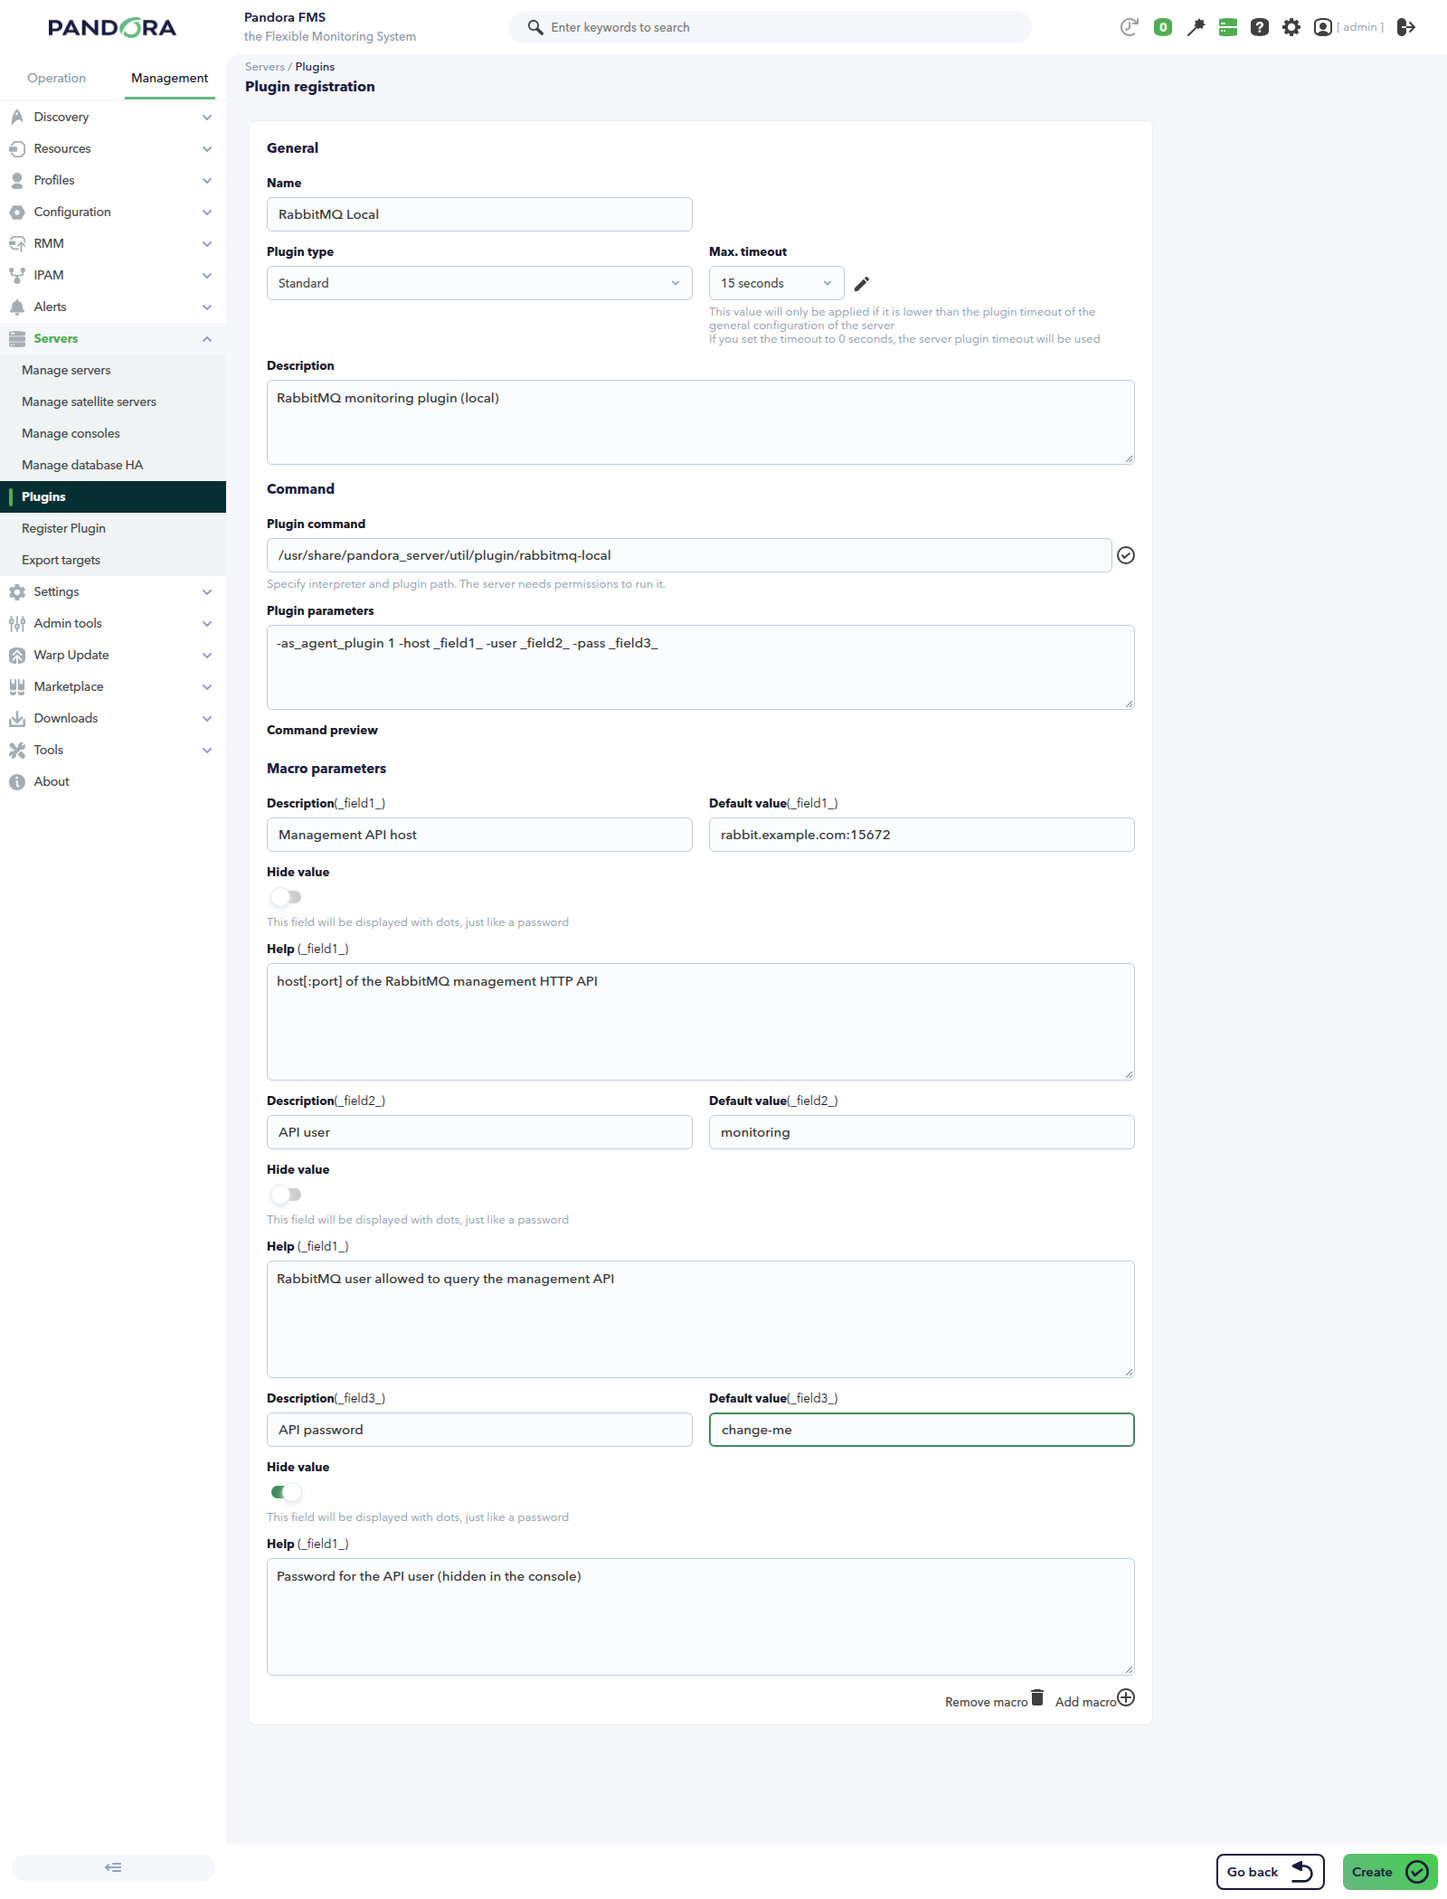
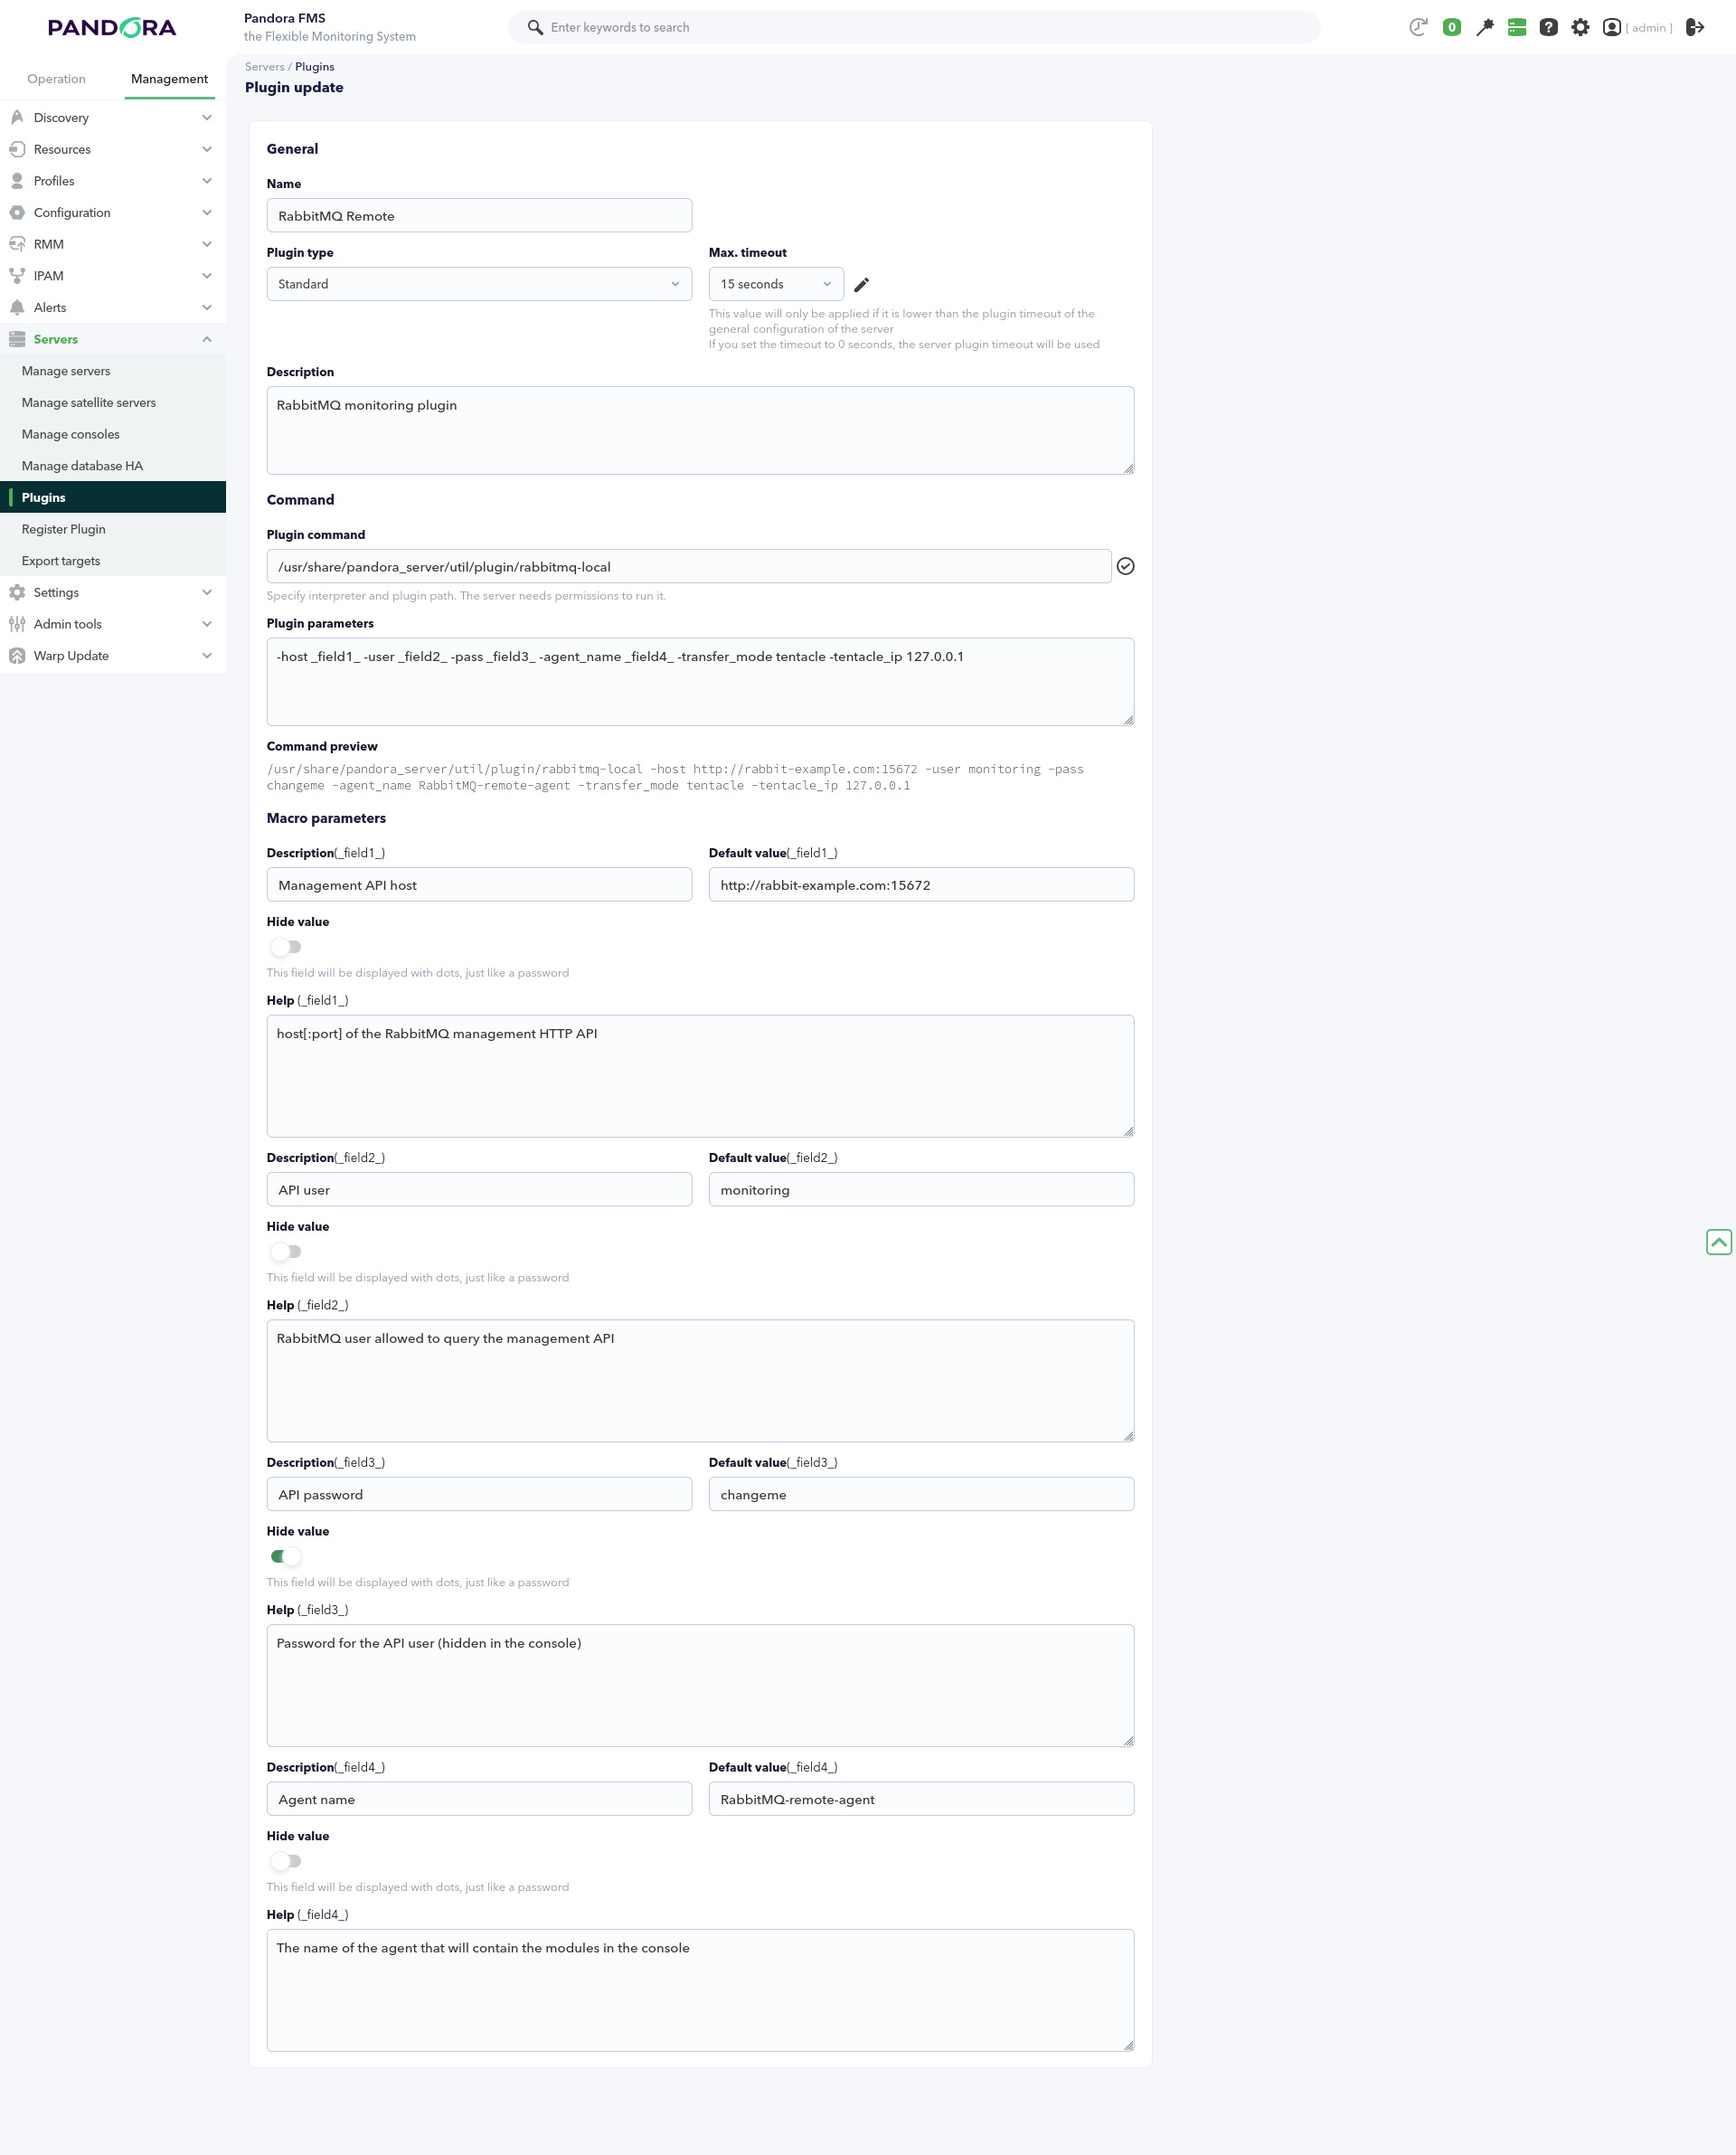
docs(rabbitmq-local): document console server-plugin registration and the management port #21113

diff --git a/docs/es/plugins/rabbitmq-local.md b/docs/es/plugins/rabbitmq-local.md
@@ -1,6 +1,6 @@
 # RabbitMQ Local monitoring plugin
 
-*Última actualización del artículo: 2026-10-16.*
+*Última actualización del artículo: 2026-10-19.*
 
 ## Qué hace
 
@@ -25,9 +25,11 @@ El plugin admite dos modelos de ejecución:
 ### Compatibilidad y disponibilidad
 
 El plugin se ha validado en Rocky Linux 9 contra un bróker RabbitMQ 3.13.7 con
-el plugin de gestión habilitado. El bróker debe exponer su API HTTP de gestión,
-por defecto en el puerto `15672`, y la máquina que ejecuta el plugin debe poder
-alcanzarla.
+el plugin de gestión habilitado. El bróker debe exponer su API HTTP de gestión
+en el puerto de gestión — `15672` por defecto en RabbitMQ — y la máquina que
+ejecuta el plugin debe poder alcanzarla. El plugin no añade ningún puerto por
+defecto: incluya el puerto de gestión en `host` (consulte
+[Configuración](#configuracion)).
 
 ### Requisitos
 
@@ -148,8 +150,11 @@ opciones, sustituyendo los valores del archivo:
 Puntos clave:
 
 - `host` admite `host`, `host:port`, `http://host:port` o `https://host:port`;
-  cuando no se indica esquema, el plugin consulta `http://<host>`. Incluya el
-  puerto de gestión cuando no sea `15672`.
+  cuando no se indica esquema, el plugin consulta `http://<host>`. El plugin no
+  añade ningún puerto por defecto: un `host` sin puerto usa el puerto por
+  defecto del esquema (`80` para HTTP, `443` para HTTPS), así que incluya el
+  puerto de gestión — `15672` es el valor por defecto de RabbitMQ — salvo que un
+  proxy sirva la API en el puerto por defecto del esquema.
 - `ca_file` apunta a un bundle PEM con la CA que firma el certificado de la API
   de gestión. Solo se usa con un host `https`; sin él, HTTPS verifica contra el
   almacén de confianza del sistema.
@@ -190,34 +195,53 @@ Puntos clave:
 
 ### Registrar el plugin en la consola
 
-El plugin también puede registrarse en la consola de Pandora FMS, de modo que
-sus parámetros se rellenen por agente como campos del módulo en lugar de en una
-línea de comandos:
+El plugin también puede registrarse en la consola de Pandora FMS como plugin de
+servidor, de modo que Pandora FMS lo ejecute en el servidor que ejecuta los
+módulos — el servidor principal o un servidor remoto — en lugar de en una línea
+de comandos. Registrado así, el plugin mantiene su modo servidor: cada
+ejecución construye el XML del agente y lo entrega, y el agente con sus módulos
+aparece en la consola.
 
-1. Abra **Servers → Plugins** y haga clic en **Add plugin**.
-2. Rellene el nombre, la ruta al ejecutable `rabbitmq-local` en el servidor de
-   Pandora FMS y los parámetros del comando, usando las macros del plugin
-   `_field1_`, `_field2_`, ... como marcadores:
+1. Abra **Servers → Plugins** y haga clic en **Register Plugin**.
+2. Indique el nombre, el tipo de plugin **Standard**, un tiempo de espera
+   máximo opcional y una descripción.
+3. En **Plugin command**, escriba la ruta al ejecutable `rabbitmq-local` en el
+   servidor de Pandora FMS, por ejemplo
+   `/usr/share/pandora_server/util/plugin/rabbitmq-local`.
+4. En **Plugin parameters**, mantenga el modo servidor (sin la clave
+   `as_agent_plugin`) y use las macros del plugin `_field1_`, `_field2_`, ...
+   como marcadores:
 
 ```text
--as_agent_plugin 1 -host _field1_ -user _field2_ -pass _field3_
+-host _field1_ -user _field2_ -pass _field3_ -agent_name _field4_ -transfer_mode tentacle -tentacle_ip 127.0.0.1
 ```
 
-3. En **Macro parameters**, describa cada campo. El campo de la contraseña
-   puede marcarse con **Hide value**, de modo que la consola lo muestra como
-   puntos.
+5. En **Macro parameters**, describa cada campo. El ejemplo usa estos valores:
 
-![Registro del plugin RabbitMQ Local en la consola de Pandora FMS](../assets/images/plugins/rabbitmq-local/plugin-registration.png)
+| Campo | Descripción | Valor de ejemplo |
+| --- | --- | --- |
+| `_field1_` | Host de la API de gestión, incluido el puerto | `http://rabbit.example.com:15672` |
+| `_field2_` | Usuario de RabbitMQ con permiso para consultar la API de gestión | `monitoring` |
+| `_field3_` | Contraseña de ese usuario; marque **Hide value** | — |
+| `_field4_` | Nombre del agente que contendrá los módulos en la consola | `RabbitMQ-remote-agent` |
+
+![Registro del plugin RabbitMQ Local como plugin de servidor en la consola de Pandora FMS](../assets/images/plugins/rabbitmq-local/plugin-registration.png)
+
+`-transfer_mode tentacle -tentacle_ip 127.0.0.1` entrega el agente al servidor
+de Tentacle de la máquina que ejecuta el plugin, de modo que el agente llega al
+servidor de Pandora FMS que ejecuta el módulo. Para copiar el XML a una carpeta
+de datos local, sustituya esas opciones por
+`-transfer_mode local -local_folder /var/spool/pandora/data_in`.
 
 Una vez registrado, el plugin está disponible al crear módulos de plugin, y
-cada módulo rellena sus campos de forma individual: el mismo plugin registrado
-sirve para varias instancias de RabbitMQ sin un archivo de configuración extra
-para cada una.
+cada módulo rellena sus campos de forma individual. El módulo se ejecuta en el
+servidor seleccionado para él, incluido un servidor remoto de Pandora FMS, de
+modo que cada bróker se monitoriza desde el servidor de Pandora FMS más cercano
+sin instalar nada en la máquina del bróker. El mismo plugin registrado sirve
+para varias instancias de RabbitMQ, y los valores de los campos pueden usar las
+macros de Pandora FMS documentadas en la ayuda *Plug-in macros* de la consola.
 
 ![Campos del plugin al crear un módulo](../assets/images/plugins/rabbitmq-local/module-plugin-fields.png)
-
-Los valores de los campos pueden usar las macros de Pandora FMS documentadas en
-la ayuda *Plug-in macros* de la consola.
 
 Los parámetros registrados pueden incluir también `-cred_file` — con una ruta
 fija o como campo — para que los módulos lean las credenciales de un archivo en
@@ -356,7 +380,7 @@ valores por defecto más las opciones.
 
 | Nombre | Obligatorio | Valor por defecto | Descripción |
 | --- | --- | --- | --- |
-| `host` | Sí | — | Host de la API de gestión, en forma `host`, `host:port`, `http://host:port` o `https://host:port`. HTTP es el valor por defecto. |
+| `host` | Sí | — | Host de la API de gestión, en forma `host`, `host:port`, `http://host:port` o `https://host:port`. HTTP es el valor por defecto. Incluya el puerto de gestión: no se añade ningún puerto por defecto. |
 | `ca_file` | No | — | Bundle PEM con la CA que firma el certificado de la API de gestión (solo se usa con un host `https`). |
 | `user` | Sí, salvo que se defina `cred_file` | — | Usuario de RabbitMQ con permiso para consultar la API de gestión. |
 | `pass` | Sí, salvo que se defina `cred_file` | — | Contraseña de `user`. |

diff --git a/docs/en/plugins/rabbitmq-local.md b/docs/en/plugins/rabbitmq-local.md
@@ -1,6 +1,6 @@
 # RabbitMQ Local monitoring plugin
 
-*Article last updated: 2026-10-16.*
+*Article last updated: 2026-10-19.*
 
 ## What it does
 
@@ -24,8 +24,10 @@ The plugin supports two execution models:
 
 The plugin has been validated on Rocky Linux 9 against a RabbitMQ broker
 running 3.13.7 with the management plugin enabled. The broker must expose its
-management HTTP API, by default on port `15672`, and the machine that runs the
-plugin must be able to reach it.
+management HTTP API on the management port — `15672` by default in RabbitMQ —
+and the machine that runs the plugin must be able to reach it. The plugin adds
+no default port: include the management port in `host` (see
+[Configure](#configure)).
 
 ### Requirements
 
@@ -140,7 +142,10 @@ Key points:
 
 - `host` accepts `host`, `host:port`, `http://host:port` or
   `https://host:port`; when no scheme is given the plugin queries
-  `http://<host>`. Include the management port when it is not `15672`.
+  `http://<host>`. The plugin adds no default port: a `host` without a port
+  uses the scheme default (`80` for HTTP, `443` for HTTPS), so include the
+  management port — `15672` is RabbitMQ's default — unless a proxy serves the
+  API on the scheme default port.
 - `ca_file` points to a PEM bundle with the CA that signs the management API
   certificate. It is only used with an `https` host; without it, HTTPS verifies
   against the system trust store.
@@ -178,31 +183,51 @@ Key points:
 
 ### Register the plugin in the console
 
-The plugin can also be registered in the Pandora FMS console, so its
-parameters are filled per agent as module fields instead of in a command line:
+The plugin can also be registered in the Pandora FMS console as a server
+plugin, so Pandora FMS executes it on the server that runs the modules — the
+main server or a remote server — instead of in a command line. Registered this
+way the plugin keeps its server mode: every run builds the agent XML and
+delivers it, and the agent with its modules appears in the console.
 
-1. Open **Servers → Plugins** and click **Add plugin**.
-2. Fill in the name, the path to the `rabbitmq-local` executable on the
-   Pandora FMS server and the command parameters, using the plugin macros
-   `_field1_`, `_field2_`, ... as placeholders:
+1. Open **Servers → Plugins** and click **Register Plugin**.
+2. Set the name, the plugin type **Standard**, an optional maximum timeout and
+   a description.
+3. In **Plugin command**, enter the path to the `rabbitmq-local` executable on
+   the Pandora FMS server, for example
+   `/usr/share/pandora_server/util/plugin/rabbitmq-local`.
+4. In **Plugin parameters**, keep server mode (no `as_agent_plugin` key) and
+   use the plugin macros `_field1_`, `_field2_`, ... as placeholders:
 
 ```text
--as_agent_plugin 1 -host _field1_ -user _field2_ -pass _field3_
+-host _field1_ -user _field2_ -pass _field3_ -agent_name _field4_ -transfer_mode tentacle -tentacle_ip 127.0.0.1
 ```
 
-3. In **Macro parameters**, describe each field. The password field can be
-   marked with **Hide value**, so the console displays it as dots.
+5. In **Macro parameters**, describe each field. The example uses these values:
 
-![RabbitMQ Local plugin registration in the Pandora FMS console](../assets/images/plugins/rabbitmq-local/plugin-registration.png)
+| Field | Description | Example value |
+| --- | --- | --- |
+| `_field1_` | Management API host, including the port | `http://rabbit.example.com:15672` |
+| `_field2_` | RabbitMQ user allowed to query the management API | `monitoring` |
+| `_field3_` | Password for that user; mark **Hide value** | — |
+| `_field4_` | Name of the agent that will hold the modules in the console | `RabbitMQ-remote-agent` |
+
+![RabbitMQ Local registered as a server plugin in the Pandora FMS console](../assets/images/plugins/rabbitmq-local/plugin-registration.png)
+
+`-transfer_mode tentacle -tentacle_ip 127.0.0.1` delivers the agent to the
+Tentacle server of the machine that runs the plugin, so the agent lands in the
+Pandora FMS server that executes the module. To copy the XML to a local data
+folder instead, replace those flags with
+`-transfer_mode local -local_folder /var/spool/pandora/data_in`.
 
 Once registered, the plugin is available when creating plugin modules, and
-every module fills the fields individually: the same registered plugin serves
-several RabbitMQ instances without an extra configuration file for each one.
+each module fills the fields individually. The module is executed on the
+server selected for it, including a remote Pandora FMS server, so each broker
+is monitored from the Pandora FMS server closest to it without installing
+anything on the broker host. The same registered plugin serves several
+RabbitMQ instances, and the field values can use the Pandora FMS macros
+documented in the console *Plug-in macros* help.
 
 ![Plugin fields while creating a module](../assets/images/plugins/rabbitmq-local/module-plugin-fields.png)
-
-The field values can use the Pandora FMS macros documented in the console
-*Plug-in macros* help.
 
 The registered parameters can also include `-cred_file` — with a fixed path or
 as a field — so the modules read the credentials from a file on the Pandora FMS
@@ -333,7 +358,7 @@ defaults plus the flags.
 
 | Name | Required | Default | Description |
 | --- | --- | --- | --- |
-| `host` | Yes | — | Management API host, in `host`, `host:port`, `http://host:port` or `https://host:port` form. HTTP is the default. |
+| `host` | Yes | — | Management API host, in `host`, `host:port`, `http://host:port` or `https://host:port` form. HTTP is the default. Include the management port: no default port is added. |
 | `ca_file` | No | — | PEM bundle with the CA that signs the management API certificate (only used with an `https` host). |
 | `user` | Yes, unless `cred_file` is set | — | RabbitMQ user allowed to query the management API. |
 | `pass` | Yes, unless `cred_file` is set | — | Password for `user`. |
